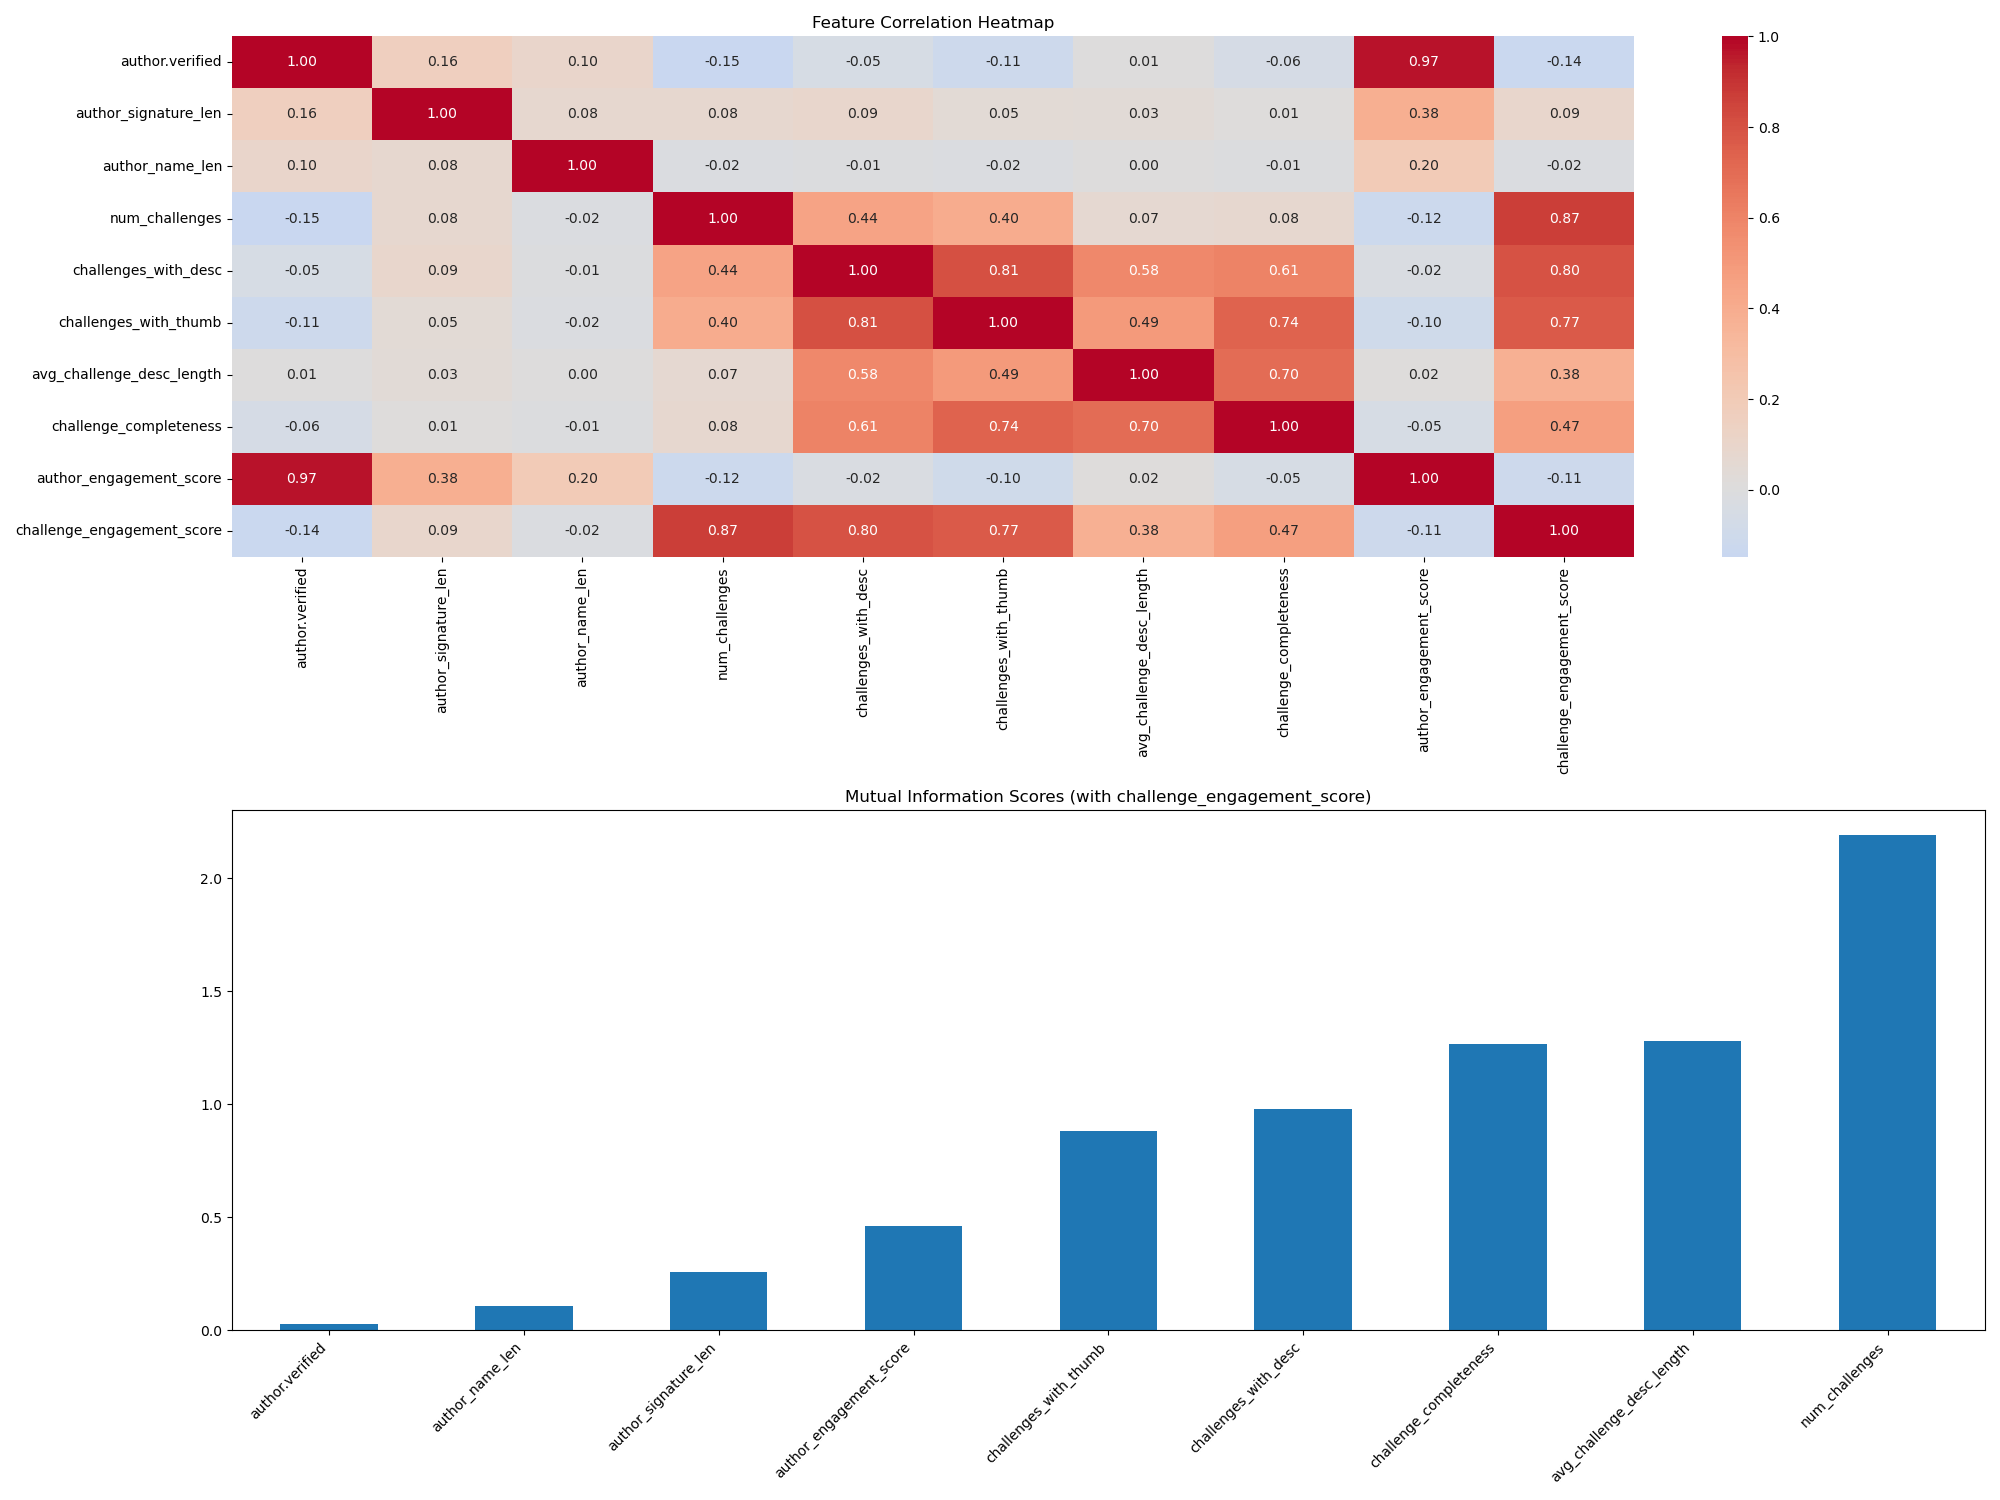
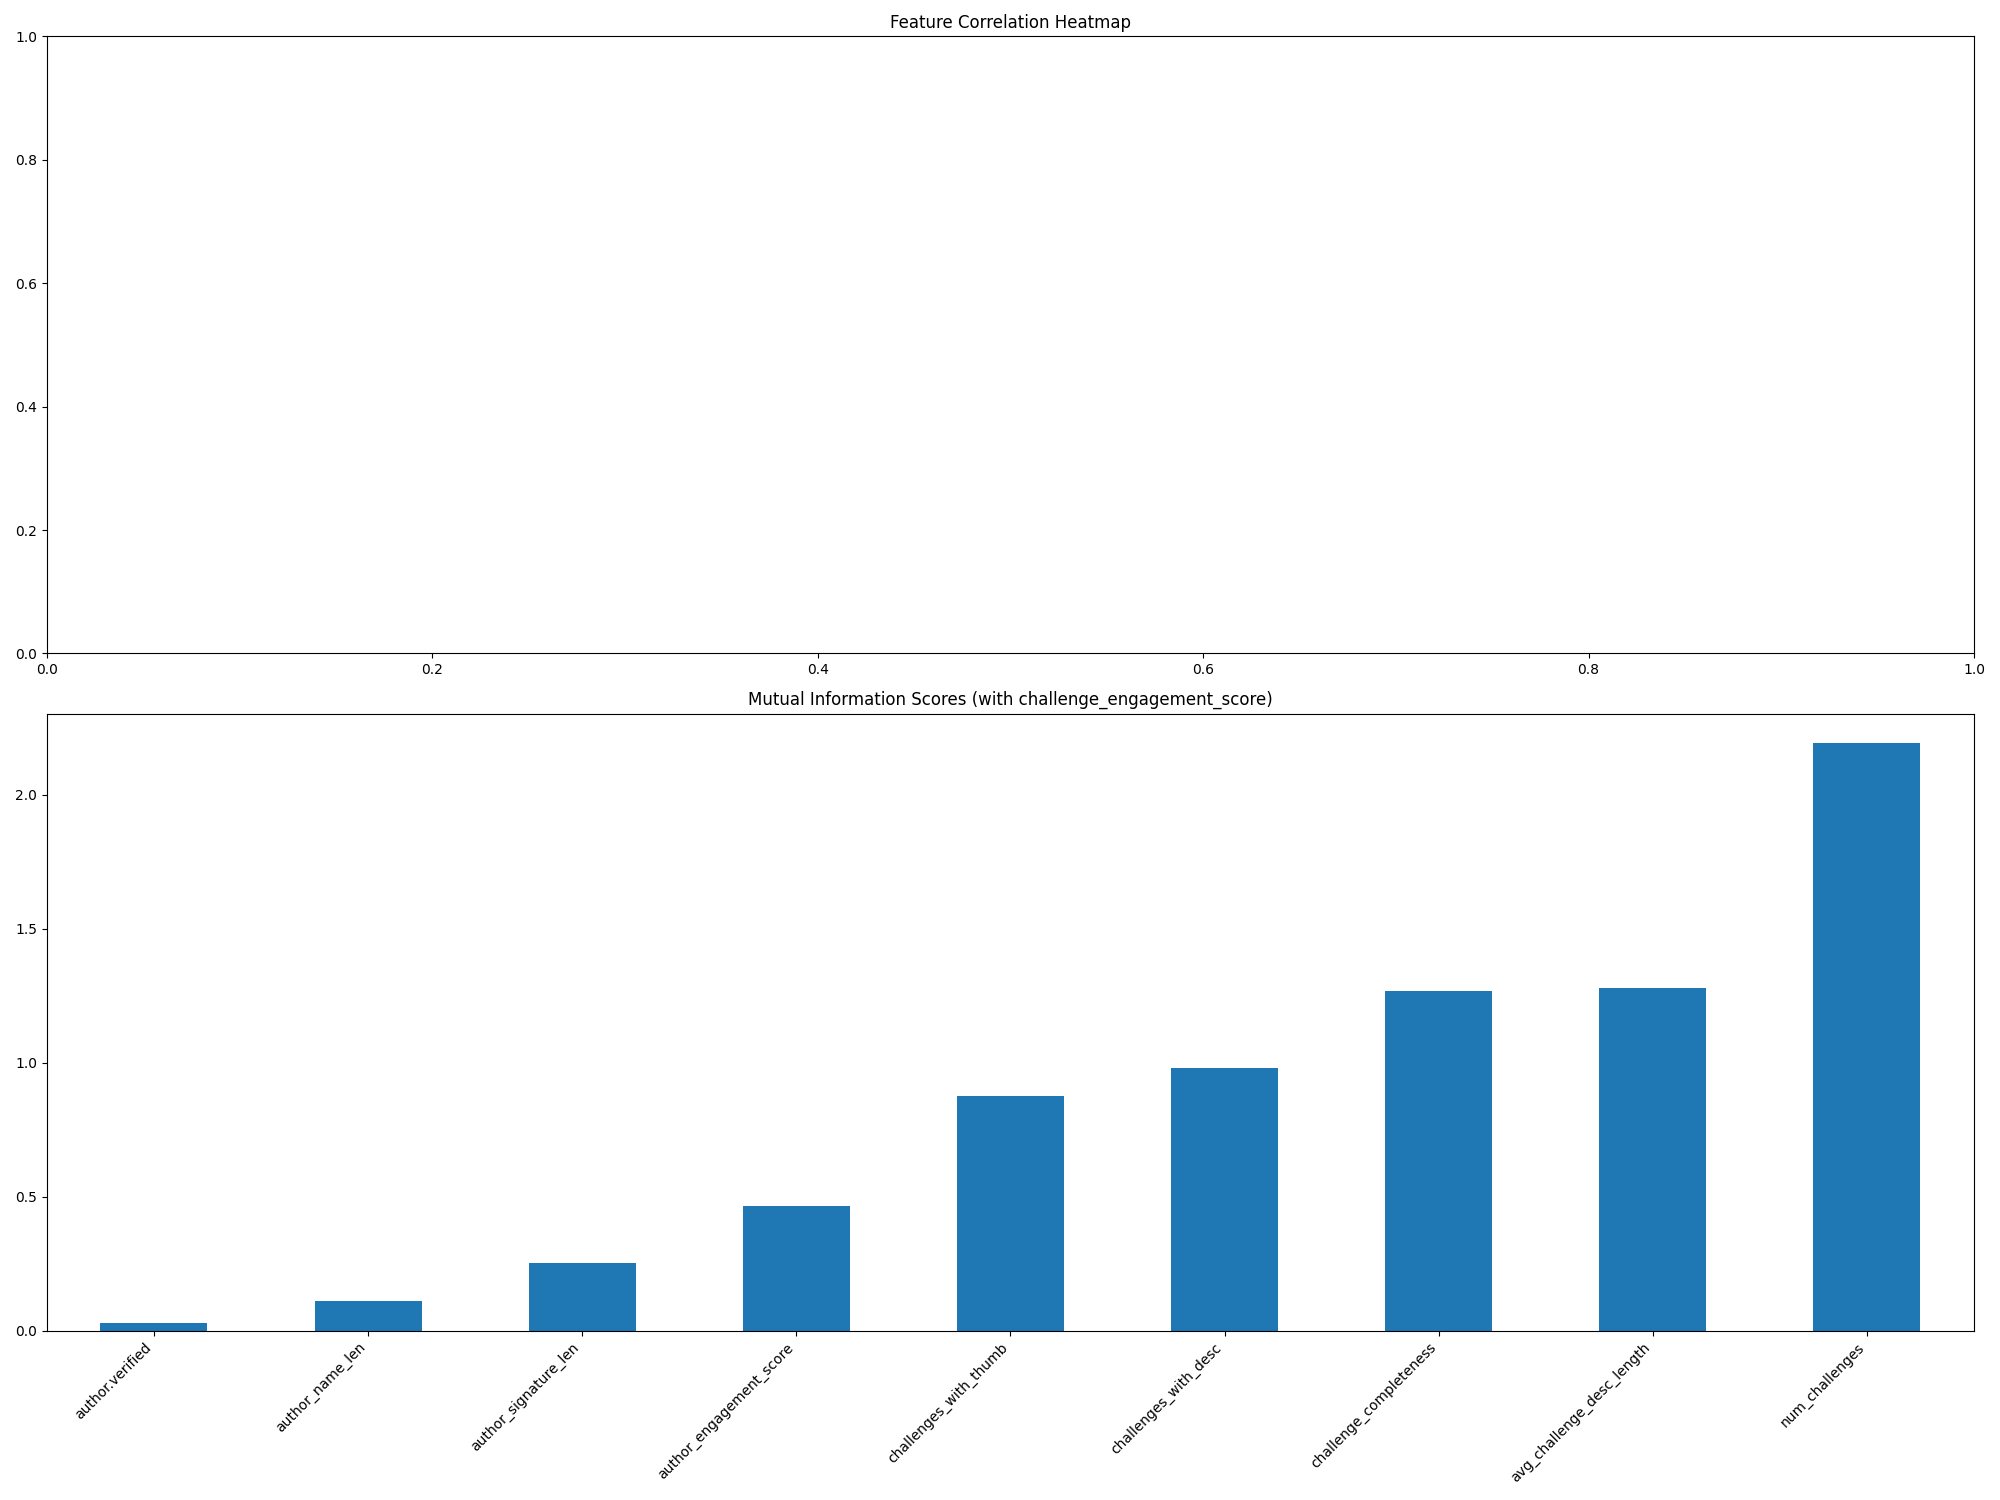
2

diff --git a/3.FetureEngineering.py b/3.FetureEngineering.py
@@ -1,79 +1,86 @@
 import pandas as pd
-from sklearn.preprocessing import MinMaxScaler
+import numpy as np
+from sklearn.feature_selection import mutual_info_regression
 
-# Load preprocessed dataset
+import matplotlib.pyplot as plt
+
+# Load the dataset
 df = pd.read_csv('tiktok_dataset.csv')
 
-# df['desc_len'] = df['desc'].astype(str).apply(len)
+print("Available columns:")
+print(df.columns.tolist())
 
-df['aspect_ratio'] = df['video.height']/['video.width']
-
-df['resolution'] = df['video.ratio']
-# df['num_hashtags'] = df['desc'].astype(str).str.count('#')
-
-# Convert verified to int
-df['verified'] = df['author.verified'].astype(int)
-
-# Extract hour and weekday from createTime
-df['hour'] = pd.to_datetime(df['createTime']).dt.hour
-df['weekday'] = pd.to_datetime(df['createTime']).dt.weekday
-
-df['music_id'] = df['music.id'].astype(str)
-
-# TODO:
-# 1. Description: change length to transformer evaluated attitude: positive, negative, neutral
-# 2. Music: music id
-# 3. Aspect ratio: video.width, video.height
-# 4. Video resolution
-
-# Feature matrix X by dropping the target variable and unnecessary columns
-# and keeping only relevant features
-X = df.drop(columns=[
-    'id',
-    'desc',
-    'createTime',
+# Prepare features for analysis
+features = [
+    # Primary Author Features
     'author.verified',
-    'music.id',
-    'video.width',
-    'video.height',
-    'video.ratio',
-    'stats.playCount',
-    'stats.diggCount',
-    'stats.commentCount',
-    'stats.shareCount',
-    'hashtags', 
-])
-
-# Engagement-related columns
-engagement_cols = [
-    'stats.playCount',
-    'stats.diggCount',
-    'stats.commentCount',
-    'stats.shareCount'
+    'author_signature_len',
+    'author_name_len',
+    # Challenge Features
+    'num_challenges',
+    'challenges_with_desc',
+    'challenges_with_thumb',
+    'avg_challenge_desc_length',
+    'challenge_completeness',
+    # Combined Scores
+    'author_engagement_score',
+    'challenge_engagement_score'
 ]
 
-########################
-scaler = MinMaxScaler()
-df_scaled = pd.DataFrame(scaler.fit_transform(df[engagement_cols]), columns=['play', 'digg', 'comment', 'share'])
+X = df[features]
 
-##########################
-df['engagement_score'] = (
-    0.4 * df_scaled['play'] +
-    0.3 * df_scaled['digg'] +
-    0.2 * df_scaled['comment'] +
-    0.1 * df_scaled['share']
-)
+# Fill missing values with median
+X = X.fillna(X.median())
 
-# Target variable
-y = df['engagement_score']
+# 1. Correlation Analysis
+correlation_matrix = X.corr()
+print("\nFeature Correlations:")
+print(correlation_matrix)
 
-# Save updated dataset with engagement score
-df.to_csv('tiktok_dataset_with_engagement_score.csv', index=False)
-X.to_csv('X_features.csv', index=False)
-y.to_csv('y_target.csv', index=False)
+# 2. Mutual Information Analysis between features and challenge_engagement_score
+target = X['challenge_engagement_score']
+features_for_mi = [f for f in features if f != 'challenge_engagement_score']
+X_for_mi = X[features_for_mi]
 
-print("✅")
-print(f"X shape: {X.shape}")
-print(f"y shape: {y.shape}")
+mi_scores = mutual_info_regression(X_for_mi, target)
+mi_series = pd.Series(mi_scores, index=features_for_mi)
+print("\nMutual Information Scores (with challenge_engagement_score):")
+print(mi_series.sort_values(ascending=False))
 
-print(X.head())
+# Create visualizations
+plt.figure(figsize=(20, 15))
+
+# Correlation Heatmap
+plt.subplot(2, 1, 1)
+plt.title('Feature Correlation Heatmap')
+
+# Mutual Information Bar Plot
+plt.subplot(2, 1, 2)
+mi_series.sort_values().plot(kind='bar')
+plt.title('Mutual Information Scores (with challenge_engagement_score)')
+plt.xticks(rotation=45, ha='right')
+
+plt.tight_layout()
+plt.savefig('feature_analysis.png')
+plt.close()
+
+# Print top correlated feature pairs
+print("\nTop Correlated Feature Pairs:")
+correlations = []
+for i in range(len(features)):
+    for j in range(i+1, len(features)):
+        corr = abs(correlation_matrix.iloc[i, j])
+        correlations.append((features[i], features[j], corr))
+
+correlations.sort(key=lambda x: abs(x[2]), reverse=True)
+for f1, f2, corr in correlations[:10]:
+    print(f"{f1} - {f2}: {corr:.3f}")
+
+# Print top features by mutual information
+print("\nTop Features by Mutual Information (with challenge_engagement_score):")
+print(mi_series.nlargest(5))
+
+# Calculate feature importance based on average absolute correlation
+feature_importance = abs(correlation_matrix).mean().sort_values(ascending=False)
+print("\nFeature Importance (Based on Average Absolute Correlation):")
+print(feature_importance.head()) 

diff --git a/2.DatasetBuild.py b/2.DatasetBuild.py
@@ -2,6 +2,7 @@ import json
 import pandas as pd
 import re
 from collections import Counter
+import numpy as np
 
 # Load and flatten JSON
 with open('first_200000_entries.json', 'r') as f:
@@ -34,29 +35,57 @@ df_selected = df[[
 df_selected['author.verified'] = df_selected['author.verified'].fillna(False).astype(int)
 df_selected['author.relation'] = df_selected['author.relation'].fillna(0)
 
-# Extract hashtags using regex
-def extract_hashtags(text):
-    return re.findall(r'#\w+', str(text))
+# 1. Primary Author Features
+df_selected['author_signature_len'] = df_selected['author.signature'].astype(str).apply(len)
+df_selected['author_name_len'] = df_selected['author.nickname'].astype(str).apply(len)
 
-df_selected['hashtags'] = df_selected['desc'].apply(extract_hashtags)
+# 2. Enhanced Challenge Features
+def extract_challenge_info(challenges):
+    if not isinstance(challenges, list):
+        return 0, 0, 0, 0, 0
+    
+    num_challenges = len(challenges)
+    challenges_with_desc = sum(1 for c in challenges if c.get('desc'))
+    challenges_with_thumb = sum(1 for c in challenges if c.get('profileThumb'))
+    
+    # Calculate average description length
+    desc_lengths = [len(str(c.get('desc', ''))) for c in challenges]
+    avg_desc_length = sum(desc_lengths) / len(desc_lengths) if desc_lengths else 0
+    
+    # Calculate challenge completeness (percentage of challenges with both desc and thumb)
+    complete_challenges = sum(1 for c in challenges if c.get('desc') and c.get('profileThumb'))
+    challenge_completeness = complete_challenges / num_challenges if num_challenges > 0 else 0
+    
+    return num_challenges, challenges_with_desc, challenges_with_thumb, avg_desc_length, challenge_completeness
 
-# Flatten and count hashtags
-all_hashtags = [tag.lower() for tags in df_selected['hashtags'] for tag in tags]
-hashtag_counts = Counter(all_hashtags)
+# Extract challenge features
+challenge_features = df_selected['challenges'].apply(extract_challenge_info)
+df_selected['num_challenges'] = challenge_features.apply(lambda x: x[0])
+df_selected['challenges_with_desc'] = challenge_features.apply(lambda x: x[1])
+df_selected['challenges_with_thumb'] = challenge_features.apply(lambda x: x[2])
+df_selected['avg_challenge_desc_length'] = challenge_features.apply(lambda x: x[3])
+df_selected['challenge_completeness'] = challenge_features.apply(lambda x: x[4])
 
-# Build a ranking dictionary {hashtag: rank}
-sorted_hashtags = [tag for tag, _ in hashtag_counts.most_common()]
-hashtag_rank = {tag: idx for idx, tag in enumerate(sorted_hashtags)}
+# 3. Combined Features
+df_selected['author_engagement_score'] = (
+    df_selected['author.verified'] * 2 +
+    df_selected['author_signature_len'] / 100 +  # Normalized by dividing by 100
+    df_selected['author_name_len'] / 50  # Normalized by dividing by 50
+)
 
-# Assign rank of top hashtag in the post (lowest index = most popular)
-def hashtag_freq_feature(tags):
-    tags_lower = [tag.lower() for tag in tags]
-    ranks = [hashtag_rank[tag] for tag in tags_lower if tag in hashtag_rank]
-    return min(ranks) if ranks else 101  # 101 if no known hashtags present
+df_selected['challenge_engagement_score'] = (
+    df_selected['num_challenges'] +
+    df_selected['challenges_with_desc'] * 1.5 +  # Weight more for challenges with descriptions
+    df_selected['challenges_with_thumb'] * 1.2 +  # Weight more for challenges with thumbnails
+    df_selected['challenge_completeness'] * 2  # Weight more for complete challenges
+)
 
-df_selected['hashtag_freq_feature'] = df_selected['hashtags'].apply(hashtag_freq_feature)
+# Fill any remaining missing values with appropriate defaults
+numeric_columns = df_selected.select_dtypes(include=[np.number]).columns
+df_selected[numeric_columns] = df_selected[numeric_columns].fillna(df_selected[numeric_columns].median())
 
-print(df_selected.head())
+print("\nSelected features:")
+print(df_selected.columns.tolist())
 
 # Save to CSV
 df_selected.to_csv('tiktok_dataset.csv', index=False)
